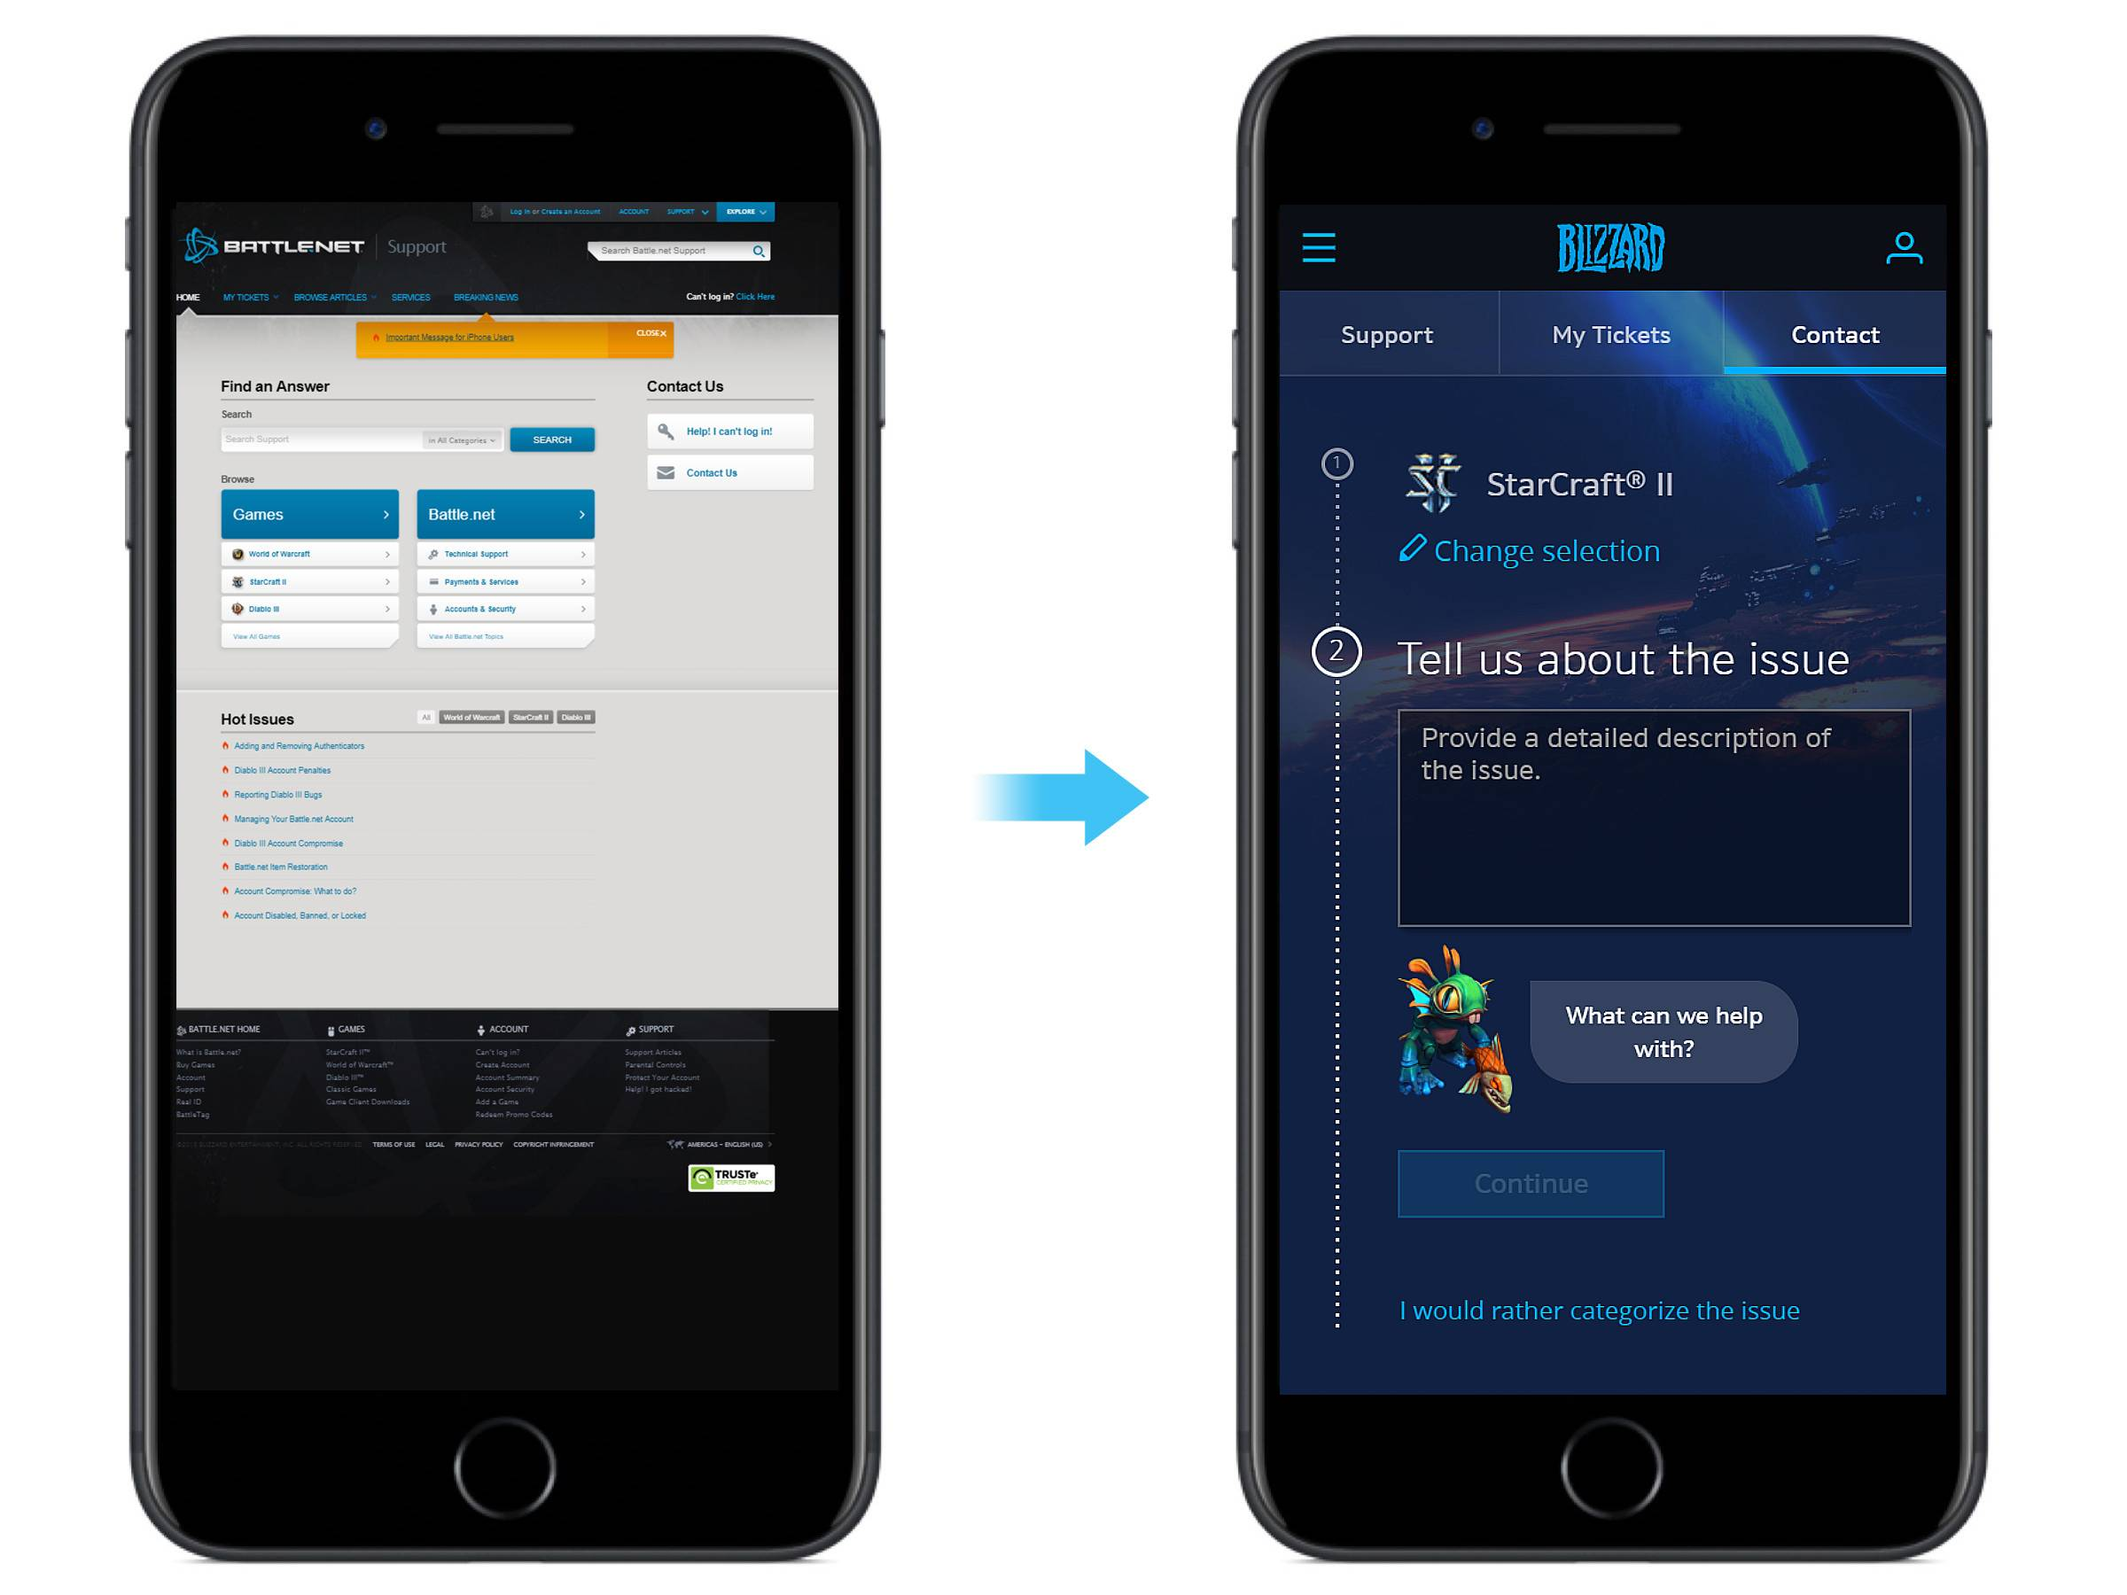
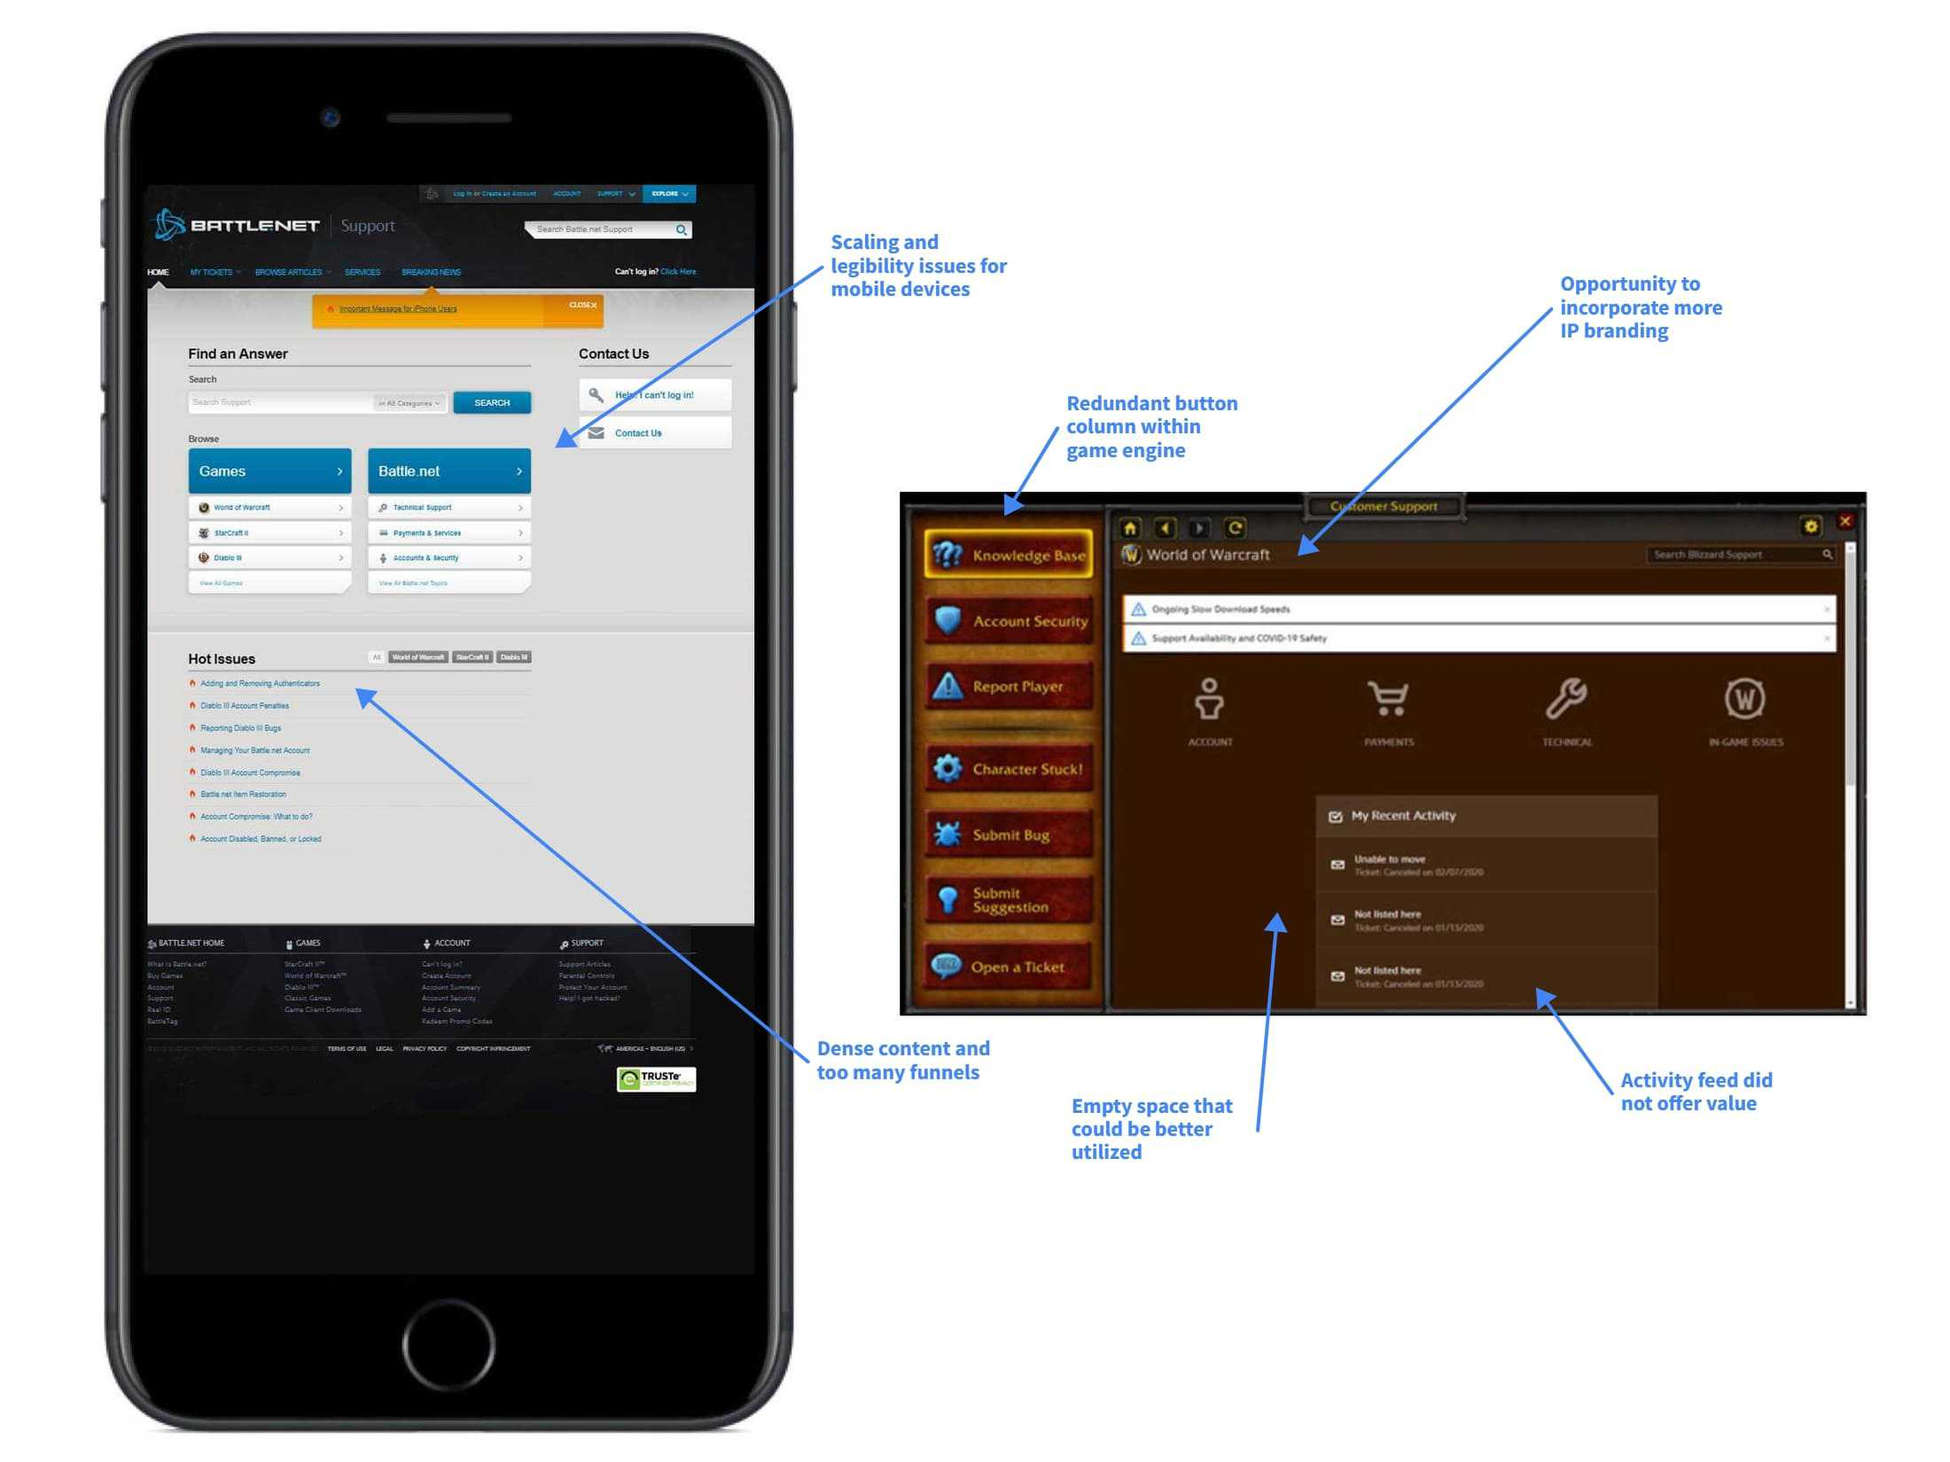
various copy changes and combined blizzard projects

diff --git a/_posts/portfolio/2018-02-01-blizzard_support.md b/_posts/portfolio/2018-02-01-blizzard_support.md
@@ -8,25 +8,40 @@ permalink: portfolio/:title/
 thumbnail: 
 - /images/portfolio/blizz_supp/blizz_supp_01.webp
 alt: Animation of Blizzard Support site
-source: http://www.battle.net/support
 ---
 
 <section>
 <h5>My Role</h5>
 
-<p>Visual Design, User Testing, Icon Design, Animation, Prototyping, Development</p>
+<p>Visual Design, User Testing, Iconography, Animation, Prototyping, Development</p>
 </section>
 
 <section>
 <h5>Objective</h5>
 
-<p>This web portal was designed to assist Activision Blizzard game customers in quickly solving their issues and get them back to their game.</p>
+<p>This web portal was designed to assist Blizzard players and customers in quickly solving their issues and returning them to their gameplay.</p>
+
+<p>Our reports showed that a growing number of users were beginning to visit the website with mobile devices as our games were going mobile. A ground-up overhaul was required to bring the interface to modern design standards. The support site offers useful resources such as self-service automations and knowledge-base and community driven articles with regards to account, technical, and gameplay related issues. Should these solutions not help, escalating the issue to a customer service representative should be simple and straight forward.</p>
 
 <div class="lightgallery">
   <a href="/images/portfolio/blizz_supp/blizz_supp_02.jpg"><img src="/images/portfolio/blizz_supp/blizz_supp_02.jpg" alt="Blizzard Support - Redesign"></a>
 </div>
 
-<p>A ground-up overhaul was required to bring the interface to modern design standards. The site offers useful resources such as self-service automations and knowledge-base and community driven articles with regards to account, technical, and gameplay related issues. Should these solutions not help, escalating the issue to a customer service representative should be simple and straight forward.</p>
+<p>In addition, game development teams were increasingly requesting modernizing or adding embedded support portals in their games. This kept players immersed and prevented them having to exit load external web browsers.</p>
+</section>
+
+<section>
+<h5>Research</h5>
+
+<p>It was important to look at how our competitors handled their support sites and how they functioned. We looked at big names such as Playstation, Xbox, Nintendo, EA, and others. We found that some were mobile responsive while others felt similar to ours. It was also interesting to see how they structured their content with regards to browsing vs searching for content.</p>
+
+<div class="lightgallery">
+  <a href="/images/portfolio/blizz_supp/comp_analysis.jpg"><img src="/images/portfolio/blizz_supp/comp_analysis.jpg" alt="Competitive Analysis"></a>
+</div>
+
+<p>We looked into our Google Analytics and discovered that most of our customers were landing on our site from Google searches rather than searching from the search bar on the Blizzard support site. This made us rethink our user journey.</p>
+
+<p>In our early stages, we also did guerilla testing around the Blizzard campus. We used lower fidelity prototypes to see how users that weren't familiar with the website would interact with it. We took it a step further by inviting external users to test the website in various iterations. I assisted our dedicated UX researcher in facilitaing these formal usability tests using features like eye tracking within Morae Observer software.</p>
 </section>
 
 <section>
@@ -37,13 +52,11 @@ source: http://www.battle.net/support
 <div class="lightgallery">
   <a href="/images/portfolio/blizz_supp/blizz_supp_03.jpg"><img src="/images/portfolio/blizz_supp/blizz_supp_03.jpg" alt="Blizzard Support - Style Tile Version 1"></a>
 </div>
-
 <div class="lightgallery">
   <a href="/images/portfolio/blizz_supp/blizz_supp_04.jpg"><img src="/images/portfolio/blizz_supp/blizz_supp_04.jpg" alt="Blizzard Support - Style Tile Version 2"></a>
 </div>
-
 <div class="lightgallery">
-  <a href="/images/portfolio/blizz_supp/blizz_supp_05.jpg"><img src="/images/portfolio/blizz_supp/blizz_supp_05.jpg" alt="Blizzard Support - Style Tile Version 3"></a>
+  <a href="/images/portfolio/blizz_supp/wow_supp_05.jpg"><img src="/images/portfolio/blizz_supp/wow_supp_05.jpg" alt="World of WarCraft - Style Tile Version 2"></a>
 </div>
 </section>
 
@@ -80,27 +93,36 @@ source: http://www.battle.net/support
 </section>
 
 <section>
-<h5>Reporting</h5>
+<h5>Localization</h5>
 
-<p>Looking at the transformation to the newly redesigned website, several key goals were reached. Reports show an increased success rate for customer self-services and has resulted in less company contacts. This resulted in drastic company cost savings.</p>
-</section>
-
-<section>
-<h5>Prototype</h5>
-
-<p>Being able to showcase screen to screen flows and to convey desired microinteractions and animations is helpful for developers to understand implentation.</p>
-
-<p>Desktop Contact Flow: <a href="https://xd.adobe.com/view/a514d4c3-bae1-4130-72ca-1f4021e43501-d325/">Link</a>
-<br>
-Mobile Contact Flow: <a href="https://xd.adobe.com/spec/91c3a3d8-a0b6-4099-57c0-689adf1de105-e7f2/">Link</a></p>
-</section>
-
-<section>
-<h5>Next Steps</h5>
-
-<p>There are more ongoing initiatives for the website today. This includes embedding the support model within in-game experiences, designing recommendation systems with machine learning algorithms, and updating component libraries on the design to code environment to assist developers. There is also a growing effort into making the site compliant with regards to accessibility and catering to those that require assistive devices.</p>
+<p>Establishing a close collaboration with regional stakeholders across the globe early in the development process was critical to meet specific player needs. New functionality was introduced for various regions and languages while being mindful of existing constraints.</p>
 
 <div class="lightgallery">
-  <a href="/images/portfolio/blizz_supp/blizz_supp_09.jpg"><img src="/images/portfolio/blizz_supp/blizz_supp_09.jpg" alt="Blizzard Support - Platforms"></a>
+  <a href="/images/portfolio/blizz_supp/wow_supp_08.jpg"><img src="/images/portfolio/blizz_supp/wow_supp_08.jpg" alt="World of Warcraft Support - Localization"></a>
+</div>
+</section>
+
+<section>
+<h5>Reflection</h5>
+
+<p>Looking at the transformation to the newly redesigned game experience, several key goals were reached. Our metrics showed an increased success rate for customer self-services, resulting in less contacts. This resulted in drastic financial savings for the company.</p>
+
+<div class="lightgallery">
+  <a href="/images/portfolio/blizz_supp/blizz_supp_09.jpg"><img src="/images/portfolio/blizz_supp/blizz_supp_09.jpg" alt="Blizzard Support - Redesign"></a>
+</div>
+<div class="lightgallery">
+  <a href="/images/portfolio/blizz_supp/wow_supp_02.jpg"><img src="/images/portfolio/blizz_supp/wow_supp_02.jpg" alt="World of Warcraft Support - Redesign"></a>
+</div>
+
+<p>Though we succeeded in areas, there were other initiatives I would have liked to see out.</p> 
+
+<p>There were ideas to improve the service recommendation systems with machine learning algorithms to give better answers to users. I would have liked to translate the component libraries from design to code environment to assist developers. There is also a growing effort into making the site compliant with regards to accessibility and catering to those that require assistive devices.</p>
+
+<div class="lightgallery">
+  <a href="/images/portfolio/blizz_supp/blizz_supp_10.jpg"><img src="/images/portfolio/blizz_supp/blizz_supp_10.jpg" alt="Blizzard Support - Platforms"></a>
+</div>
+
+<div class="lightgallery">
+  <a href="/images/portfolio/blizz_supp/wow_supp_00.jpg"><img src="/images/portfolio/blizz_supp/wow_supp_00.jpg" alt="World of Warcraft - Support"></a>
 </div>
 </section>

diff --git a/_posts/portfolio/archived/2020-11-23-wow_supp.md b/_posts/portfolio/archived/2020-11-23-wow_supp.md
@@ -14,7 +14,7 @@ source: https://worldofwarcraft.com/
 <section>
 <h5>My Role</h5>
 
-<p>Visual Design, User Testing, Icon Design, Animation, Prototyping, Development</p>
+<p>Visual Design, User Testing, Iconography, Animation, Prototyping, Development</p>
 
 <div class="lightgallery">
   <a href="/images/portfolio/wow_supp/wow_supp_01.jpg"><img src="/images/portfolio/wow_supp/wow_supp_01.jpg" alt="World of Warcraft Support"></a>
@@ -24,7 +24,7 @@ source: https://worldofwarcraft.com/
 <section>
 <h5>Objective</h5>
 
-<p>This in-game interface was designed to assist World of Warcraft players in quickly solving their issues to get them back to their game.</p>
+<p>This in-game interface was designed to assist World of Warcraft players in quickly solving their issues and returning them to their gameplay.</p>
 
 <div class="lightgallery">
   <a href="/images/portfolio/wow_supp/wow_supp_02.jpg"><img src="/images/portfolio/wow_supp/wow_supp_02.jpg" alt="World of Warcraft Support - Redesign"></a>
@@ -36,15 +36,15 @@ source: https://worldofwarcraft.com/
   <a href="/images/portfolio/wow_supp/wow_supp_03.jpg"><img src="/images/portfolio/wow_supp/wow_supp_03.jpg" alt="World of Warcraft Support - Expanded UI"></a>
 </div>
 
-<p>This redesign coincided with an of an influx of players from the release of the "Shadowlands" expansion. This launch became the fastest-selling PC game of all time, with 3.7 million sales in a single day.</p>
+<p>The redesign coincided with an influx of players from the release of the "Shadowlands" expansion. This became the fastest-selling PC game of all time, with 3.7 million sales in a single day.</p>
 </section>
 
 <section>
 <h5>Style Tiles</h5>
 
-<p>The previous rendition of the World of Warcraft Support portal did not adhere closely to the game's brand guidelines. It previously had the look and feel of an agnostic Blizzard site that caters to all Blizzard game titles. </p>
+<p>The previous rendition of the World of Warcraft Support portal did not adhere closely to the game's brand guidelines. It had the look and feel of an agnostic Blizzard site that catered to all Blizzard game titles. This likely made players feel less immersed.</p>
 
-<p>Instead, this interface should integrate more closely with the surrounding game interfaces. To address this, the first exercise was to create style tiles to illustrate various design directions we could apply to the whole experience.</p> 
+<p>It was obvious that the interface should integrate more closely with the surrounding game interfaces. To address this, the first exercise was to create style tiles to illustrate various design directions we could apply to the whole experience.</p> 
 
 <div class="lightgallery">
   <a href="/images/portfolio/wow_supp/wow_supp_04.jpg"><img src="/images/portfolio/wow_supp/wow_supp_04.jpg" alt="World of Warcraft Support - Style Tile Version 1"></a>
@@ -62,7 +62,7 @@ source: https://worldofwarcraft.com/
 <section>
 <h5>Component Libraries</h5>
 
-<p>The next step was to start building component libraries and style guides for other designers and developers to use as patterns. This ensures consistency across the site which is critical.</p>
+<p>The next step was to start building component libraries and style guides for other designers and developers to use as patterns. This ensured players would experience a cohesive experience throughout.</p>
 
 <div class="lightgallery">
   <a href="/images/portfolio/wow_supp/wow_supp_07.jpg"><img src="/images/portfolio/wow_supp/wow_supp_07.jpg" alt="World of Warcraft Support - Components"></a>
@@ -74,19 +74,13 @@ source: https://worldofwarcraft.com/
 
 <p>Next, these UI components were applied to low fidelity flows created in collaboration with UX designers to transition them into high fidelity mockups.</p>
 
-<p>Micro interactions and animations were then created between screens to build out a working prototype. This helps illustrate the design flow to various stakeholders.</p>
+<p>Micro interactions and animations were then created between screens to build out a working prototype. This helped to illustrate the design flow to various stakeholders.</p>
 </section>
 
 <section>
 <h5>Design Specs</h5>
 
-<p>In order to reach the level of fidelity the design team was seeking on the final product, detailed design specs were provided to the engineering team.</p>
-</section>
-
-<section>
-<h5>Reporting</h5>
-
-<p>Looking at the transformation to the newly redesigned game experience, several key goals were reached. Reports show an increased success rate for customer self-services, resulting in less contacts. This resulted in drastic company cost savings.</p>
+<p>In order to reach the level of fidelity the design team was seeking on the final product, detailed design specs were provided to the development team.</p>
 </section>
 
 <section>
@@ -100,13 +94,11 @@ source: https://worldofwarcraft.com/
 </section>
 
 <section>
-<h5>Prototype</h5>
+<h5>Reflection</h5>
 
-<p>Being able to showcase screen to screen flows and convey desired microinteractions and animations is helpful for developers to understand implentation.</p>
-</section>
+<p>Looking at the transformation to the newly redesigned game experience, several key goals were reached. Our metrics showed an increased success rate for customer self-services, resulting in less contacts. This resulted in drastic financial savings for the company.</p>
 
-<section>
-<h5>Next Steps</h5>
+<p>Though we succeeed in areas, there were other initiatives I would have liked to see out.</p> 
 
-<p>There are more ongoing initiatives for the website today. This includes designing improved recommendation systems with machine learning algorithms and updating component libraries on the design to code environment to assist developers. There is also a growing effort into making the site compliant with regards to accessibility and catering to those that require assistive devices.</p>
+<p>There were ideas to improve the service recommendation systems with machine learning algorithms to give better answers to users. I would have liked to translate the component libraries from design to code environment to assist developers. There is also a growing effort into making the site compliant with regards to accessibility and catering to those that require assistive devices.</p>
 </section>

diff --git a/_posts/portfolio/2021-04-11-honda_sports_ev_instr_clust.md b/_posts/portfolio/2021-04-11-honda_sports_ev_instr_clust.md
@@ -13,7 +13,7 @@ source: https://www.figma.com/proto/e18AYrEO19KMjZjbOlhtoo/Honda-Sports-EV-Clust
 <section>
 <h5>My Role</h5>
 
-<p>Visual Design, Icon Design, Animation, Prototyping</p>
+<p>Visual Design, Iconography, Animation, Prototyping</p>
 </section>
 
 <section>
@@ -66,10 +66,10 @@ source: https://www.figma.com/proto/e18AYrEO19KMjZjbOlhtoo/Honda-Sports-EV-Clust
 </section>
 
 <section>
-<h5>High Fidelity</h5>
+<h5>Prototyping</h5>
 
 <div class="lightgallery">
-  <a href="\images\portfolio\honda_sports_ev_instr_panel\honda_sports_ev_00.jpg"><img src="\images\portfolio\honda_sports_ev_instr_panel\honda_sports_ev_00.jpg" alt="Instrument Panel Mockup"></a>
+  <a href="\images\portfolio\honda_sports_ev_instr_panel\proto.jpg"><img src="\images\portfolio\honda_sports_ev_instr_panel\proto.jpg" alt="Instrument Panel Mockup"></a>
 </div>
 </section>
 
@@ -78,13 +78,5 @@ source: https://www.figma.com/proto/e18AYrEO19KMjZjbOlhtoo/Honda-Sports-EV-Clust
 
 <div class="lightgallery">
   <a href="\images\portfolio\honda_sports_ev_instr_panel\honda_panel_anim.webp"><img src="\images\portfolio\honda_sports_ev_instr_panel\honda_panel_anim.webp" alt="Instrument Panel Animation"></a>
-</div>
-</section>
-
-<section>
-<h5>Prototype</h5>
-
-<div class="lightgallery">
-  <a href="\images\portfolio\honda_sports_ev_instr_panel\proto.jpg"><img src="\images\portfolio\honda_sports_ev_instr_panel\proto.jpg" alt="Instrument Panel Mockup"></a>
 </div>
 </section>
